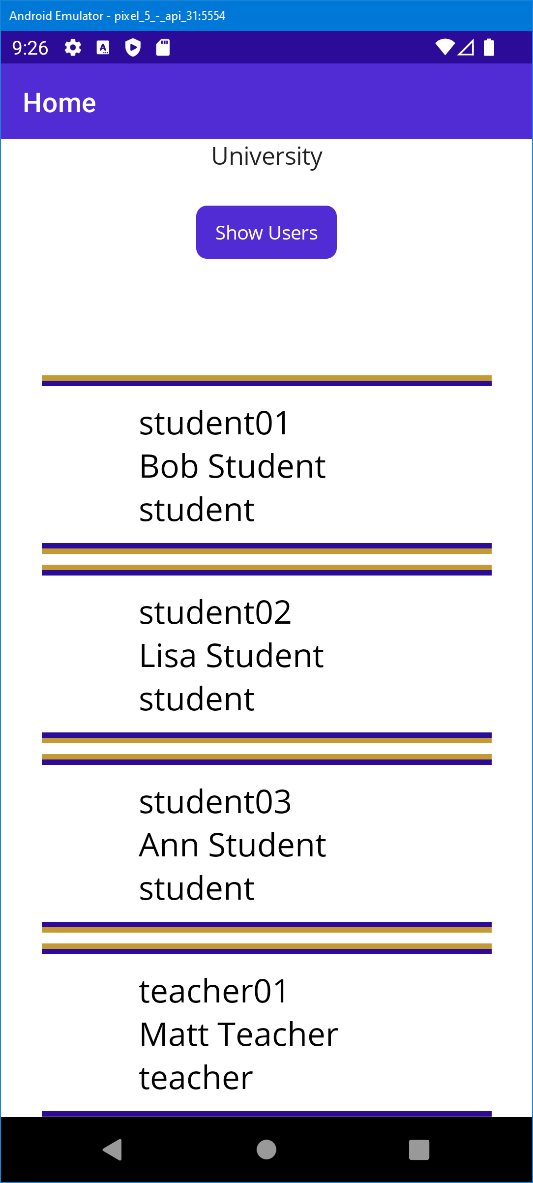
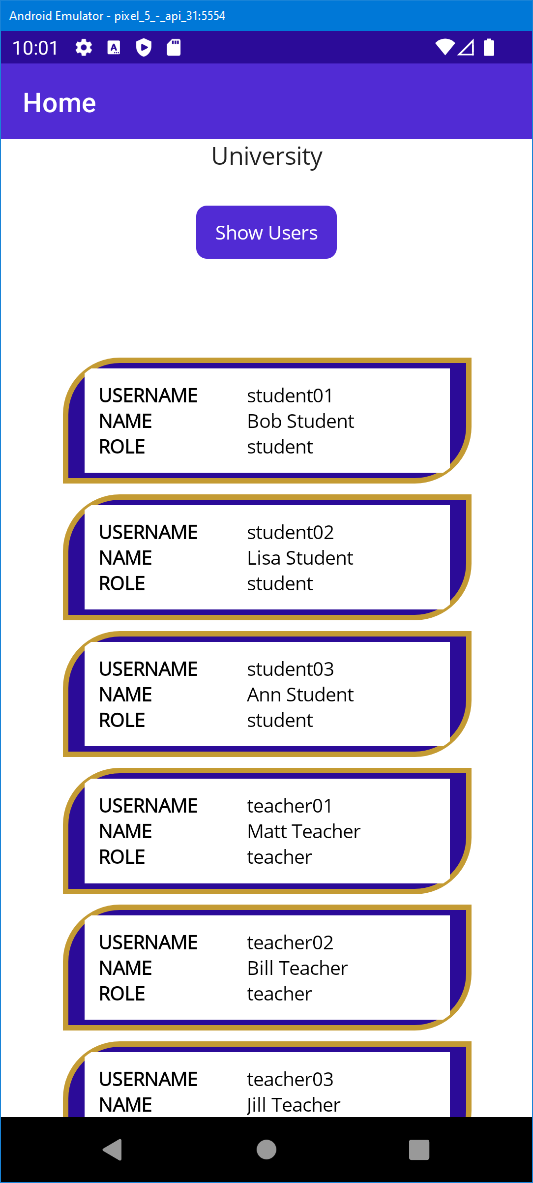
Fontsize edited

Changed region(s): [[0.06, 0.3043, 0.9306, 0.9434], [0.1201, 0.0304, 0.3602, 0.0609], [0.03, 0.0304, 0.0901, 0.0609]]

diff --git a/MainPage.xaml b/MainPage.xaml
@@ -25,7 +25,7 @@
             <Label
                 x:Name="labelResult"
                 SemanticProperties.HeadingLevel="Level1"
-                FontSize="24"
+                FontSize="14"
                 HorizontalOptions="Center" />
             <CollectionView ItemsSource="{Binding usersList}"
                             x:Name="collectionUser"
@@ -46,46 +46,46 @@
                                     <RowDefinition Height="Auto" />
                                 </Grid.RowDefinitions>
                                 <Grid.ColumnDefinitions>
-                                    <ColumnDefinition Width="200" />
+                                    <ColumnDefinition Width="100" />
                                     <ColumnDefinition Width="10" />
-                                    <ColumnDefinition Width="400" />
+                                    <ColumnDefinition Width="140" />
                                 </Grid.ColumnDefinitions>
                                 <Label Grid.Row="0" Grid.Column="0"
                                 Text="USERNAME"
                                 FontAttributes="Bold"
-                                FontSize="24"
+                                FontSize="14"
                                 TextColor="Black"
                                 VerticalTextAlignment="Center"
                              />
                                 <Label Grid.Row="1" Grid.Column="0"
                                 Text="NAME"
                                 FontAttributes="Bold"
-                                FontSize="24"
+                                FontSize="14"
                                 TextColor="Black"
                                 VerticalTextAlignment="Center"
                              />
                                 <Label Grid.Row="2" Grid.Column="0"
                                 Text="ROLE"
                                 FontAttributes="Bold"
-                                FontSize="24"
+                                FontSize="14"
                                 TextColor="Black"
                                 VerticalTextAlignment="Center"
                              />
                                 <Label Grid.Row="0" Grid.Column="2"
                                 Text="{Binding Username}"
-                                FontSize="24"
+                                FontSize="14"
                                 TextColor="Black"
                                 VerticalTextAlignment="Center"
                              />
                                 <Label Grid.Row="1" Grid.Column="2"
                                 Text="{Binding Name}"
-                                FontSize="24"
+                                FontSize="14"
                                 TextColor="Black"
                                 VerticalTextAlignment="Center"
                              />
                                 <Label Grid.Row="2" Grid.Column="2"
                                 Text="{Binding Identity}"
-                                FontSize="24"
+                                FontSize="14"
                                 TextColor="Black"
                                 VerticalTextAlignment="Center"
                              />
